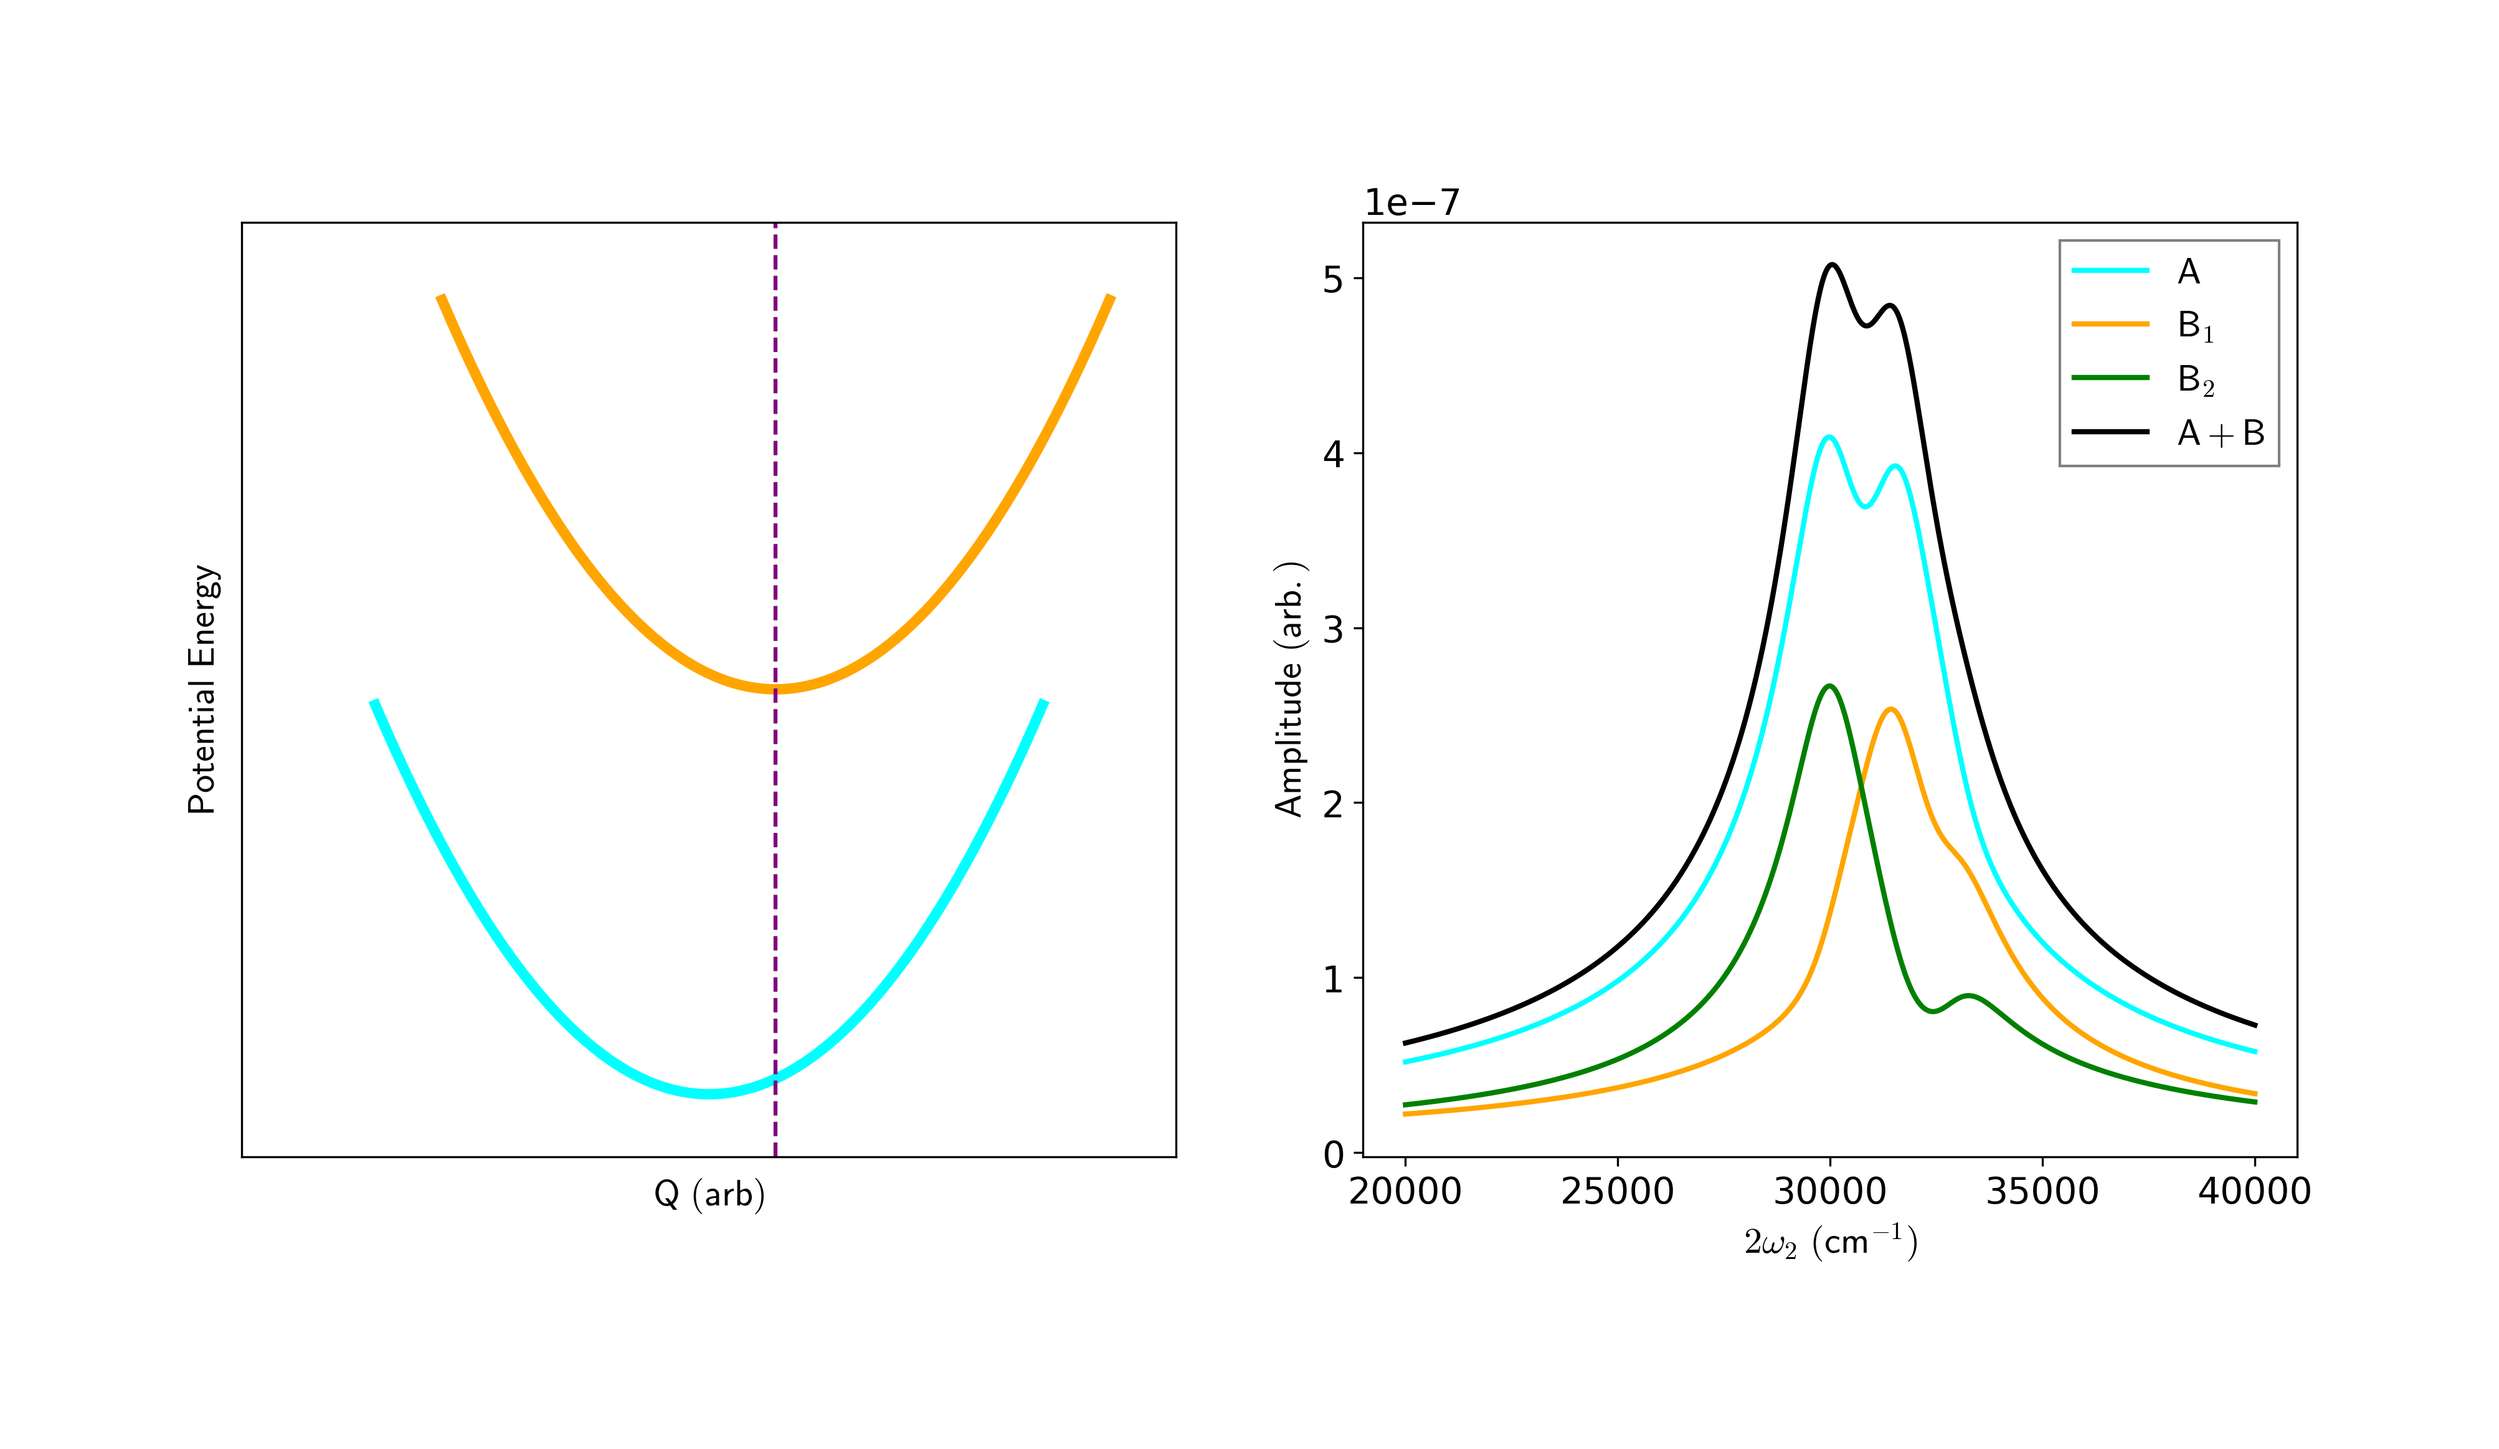
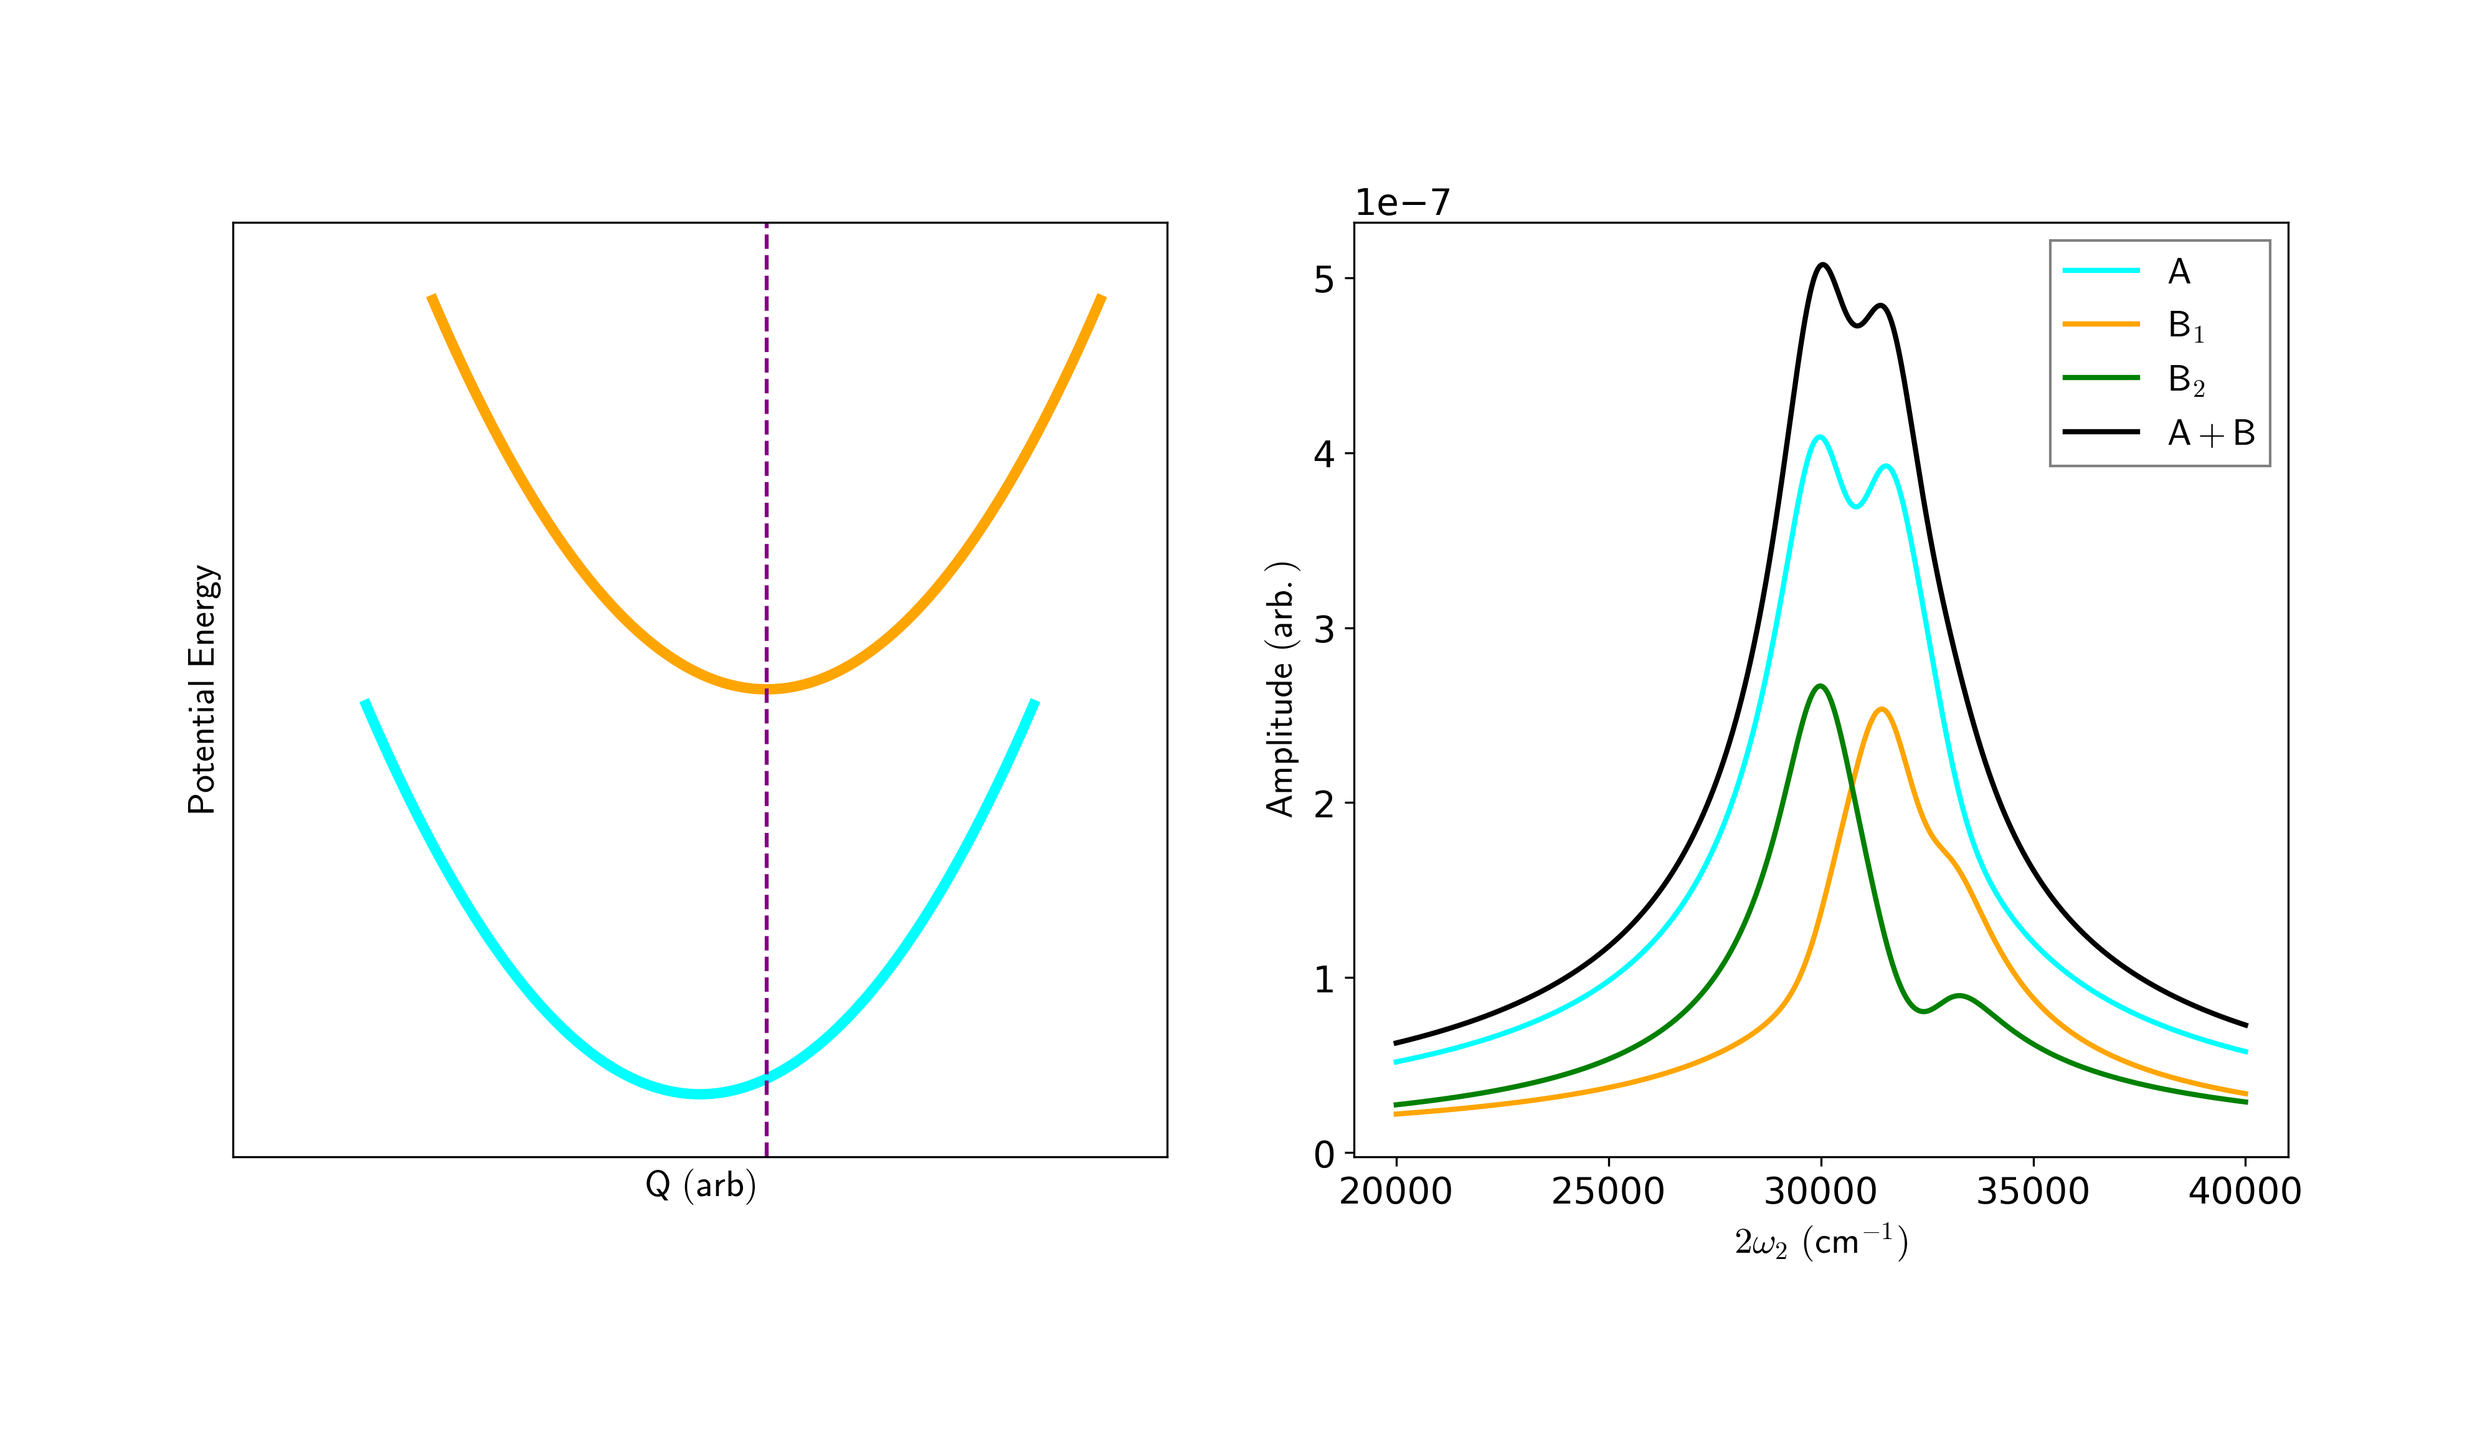
slight ed

diff --git a/figures/2D_spec.py b/figures/2D_spec.py
@@ -11,7 +11,7 @@ import numpy as np
 import WrightTools as wt
 import matplotlib.pyplot as plt 
 
-save = False
+save = True
 
 
 #define harmonic wells and coordinates
@@ -86,7 +86,7 @@ dMgedQ = 0.05
 
 
 #define terms
-y = np.linspace(20000, 40000, 20000)
+y = np.linspace(20000, 40000, 40000)
 d = 0.5 #offset
 
 A = Mge * alphage * (f10(d)*f00(d)*Deltaevgo(0,y,0) + f11(d)*f10(d)*Deltaevgo(1,y,1) + f12(d)*f20(d)*Deltaevgo(2,y,2)) #there must be a simpler way to do this but idk
